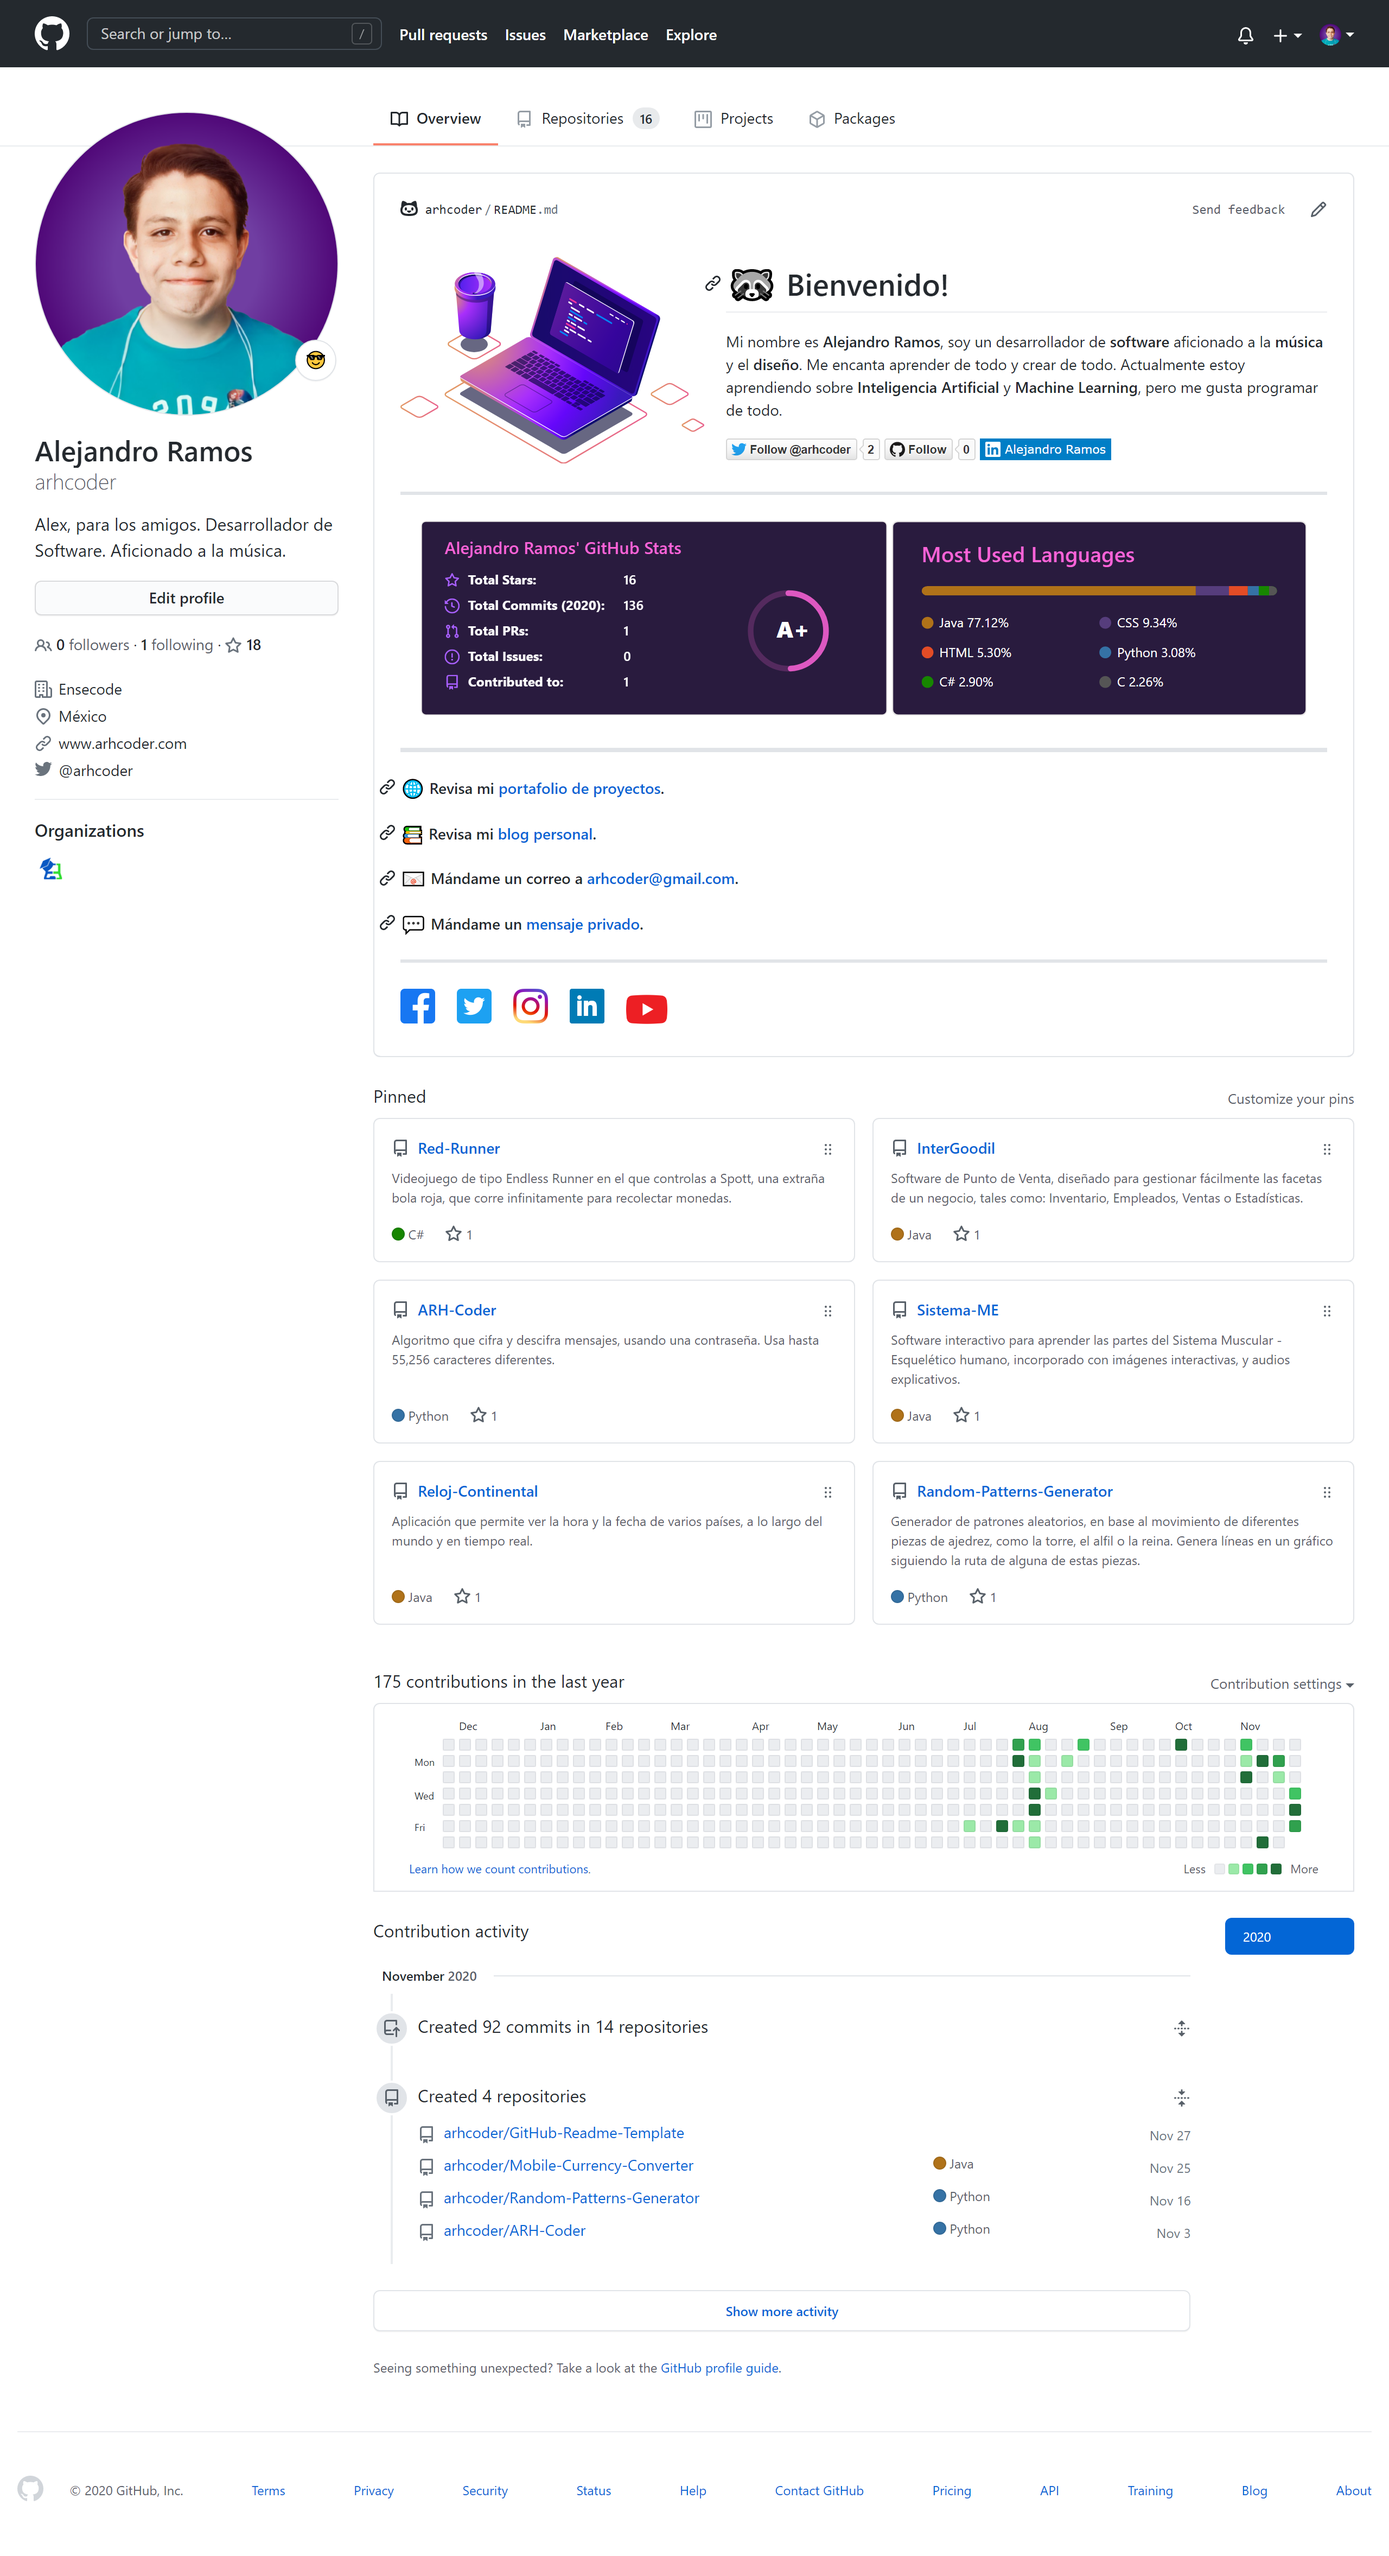
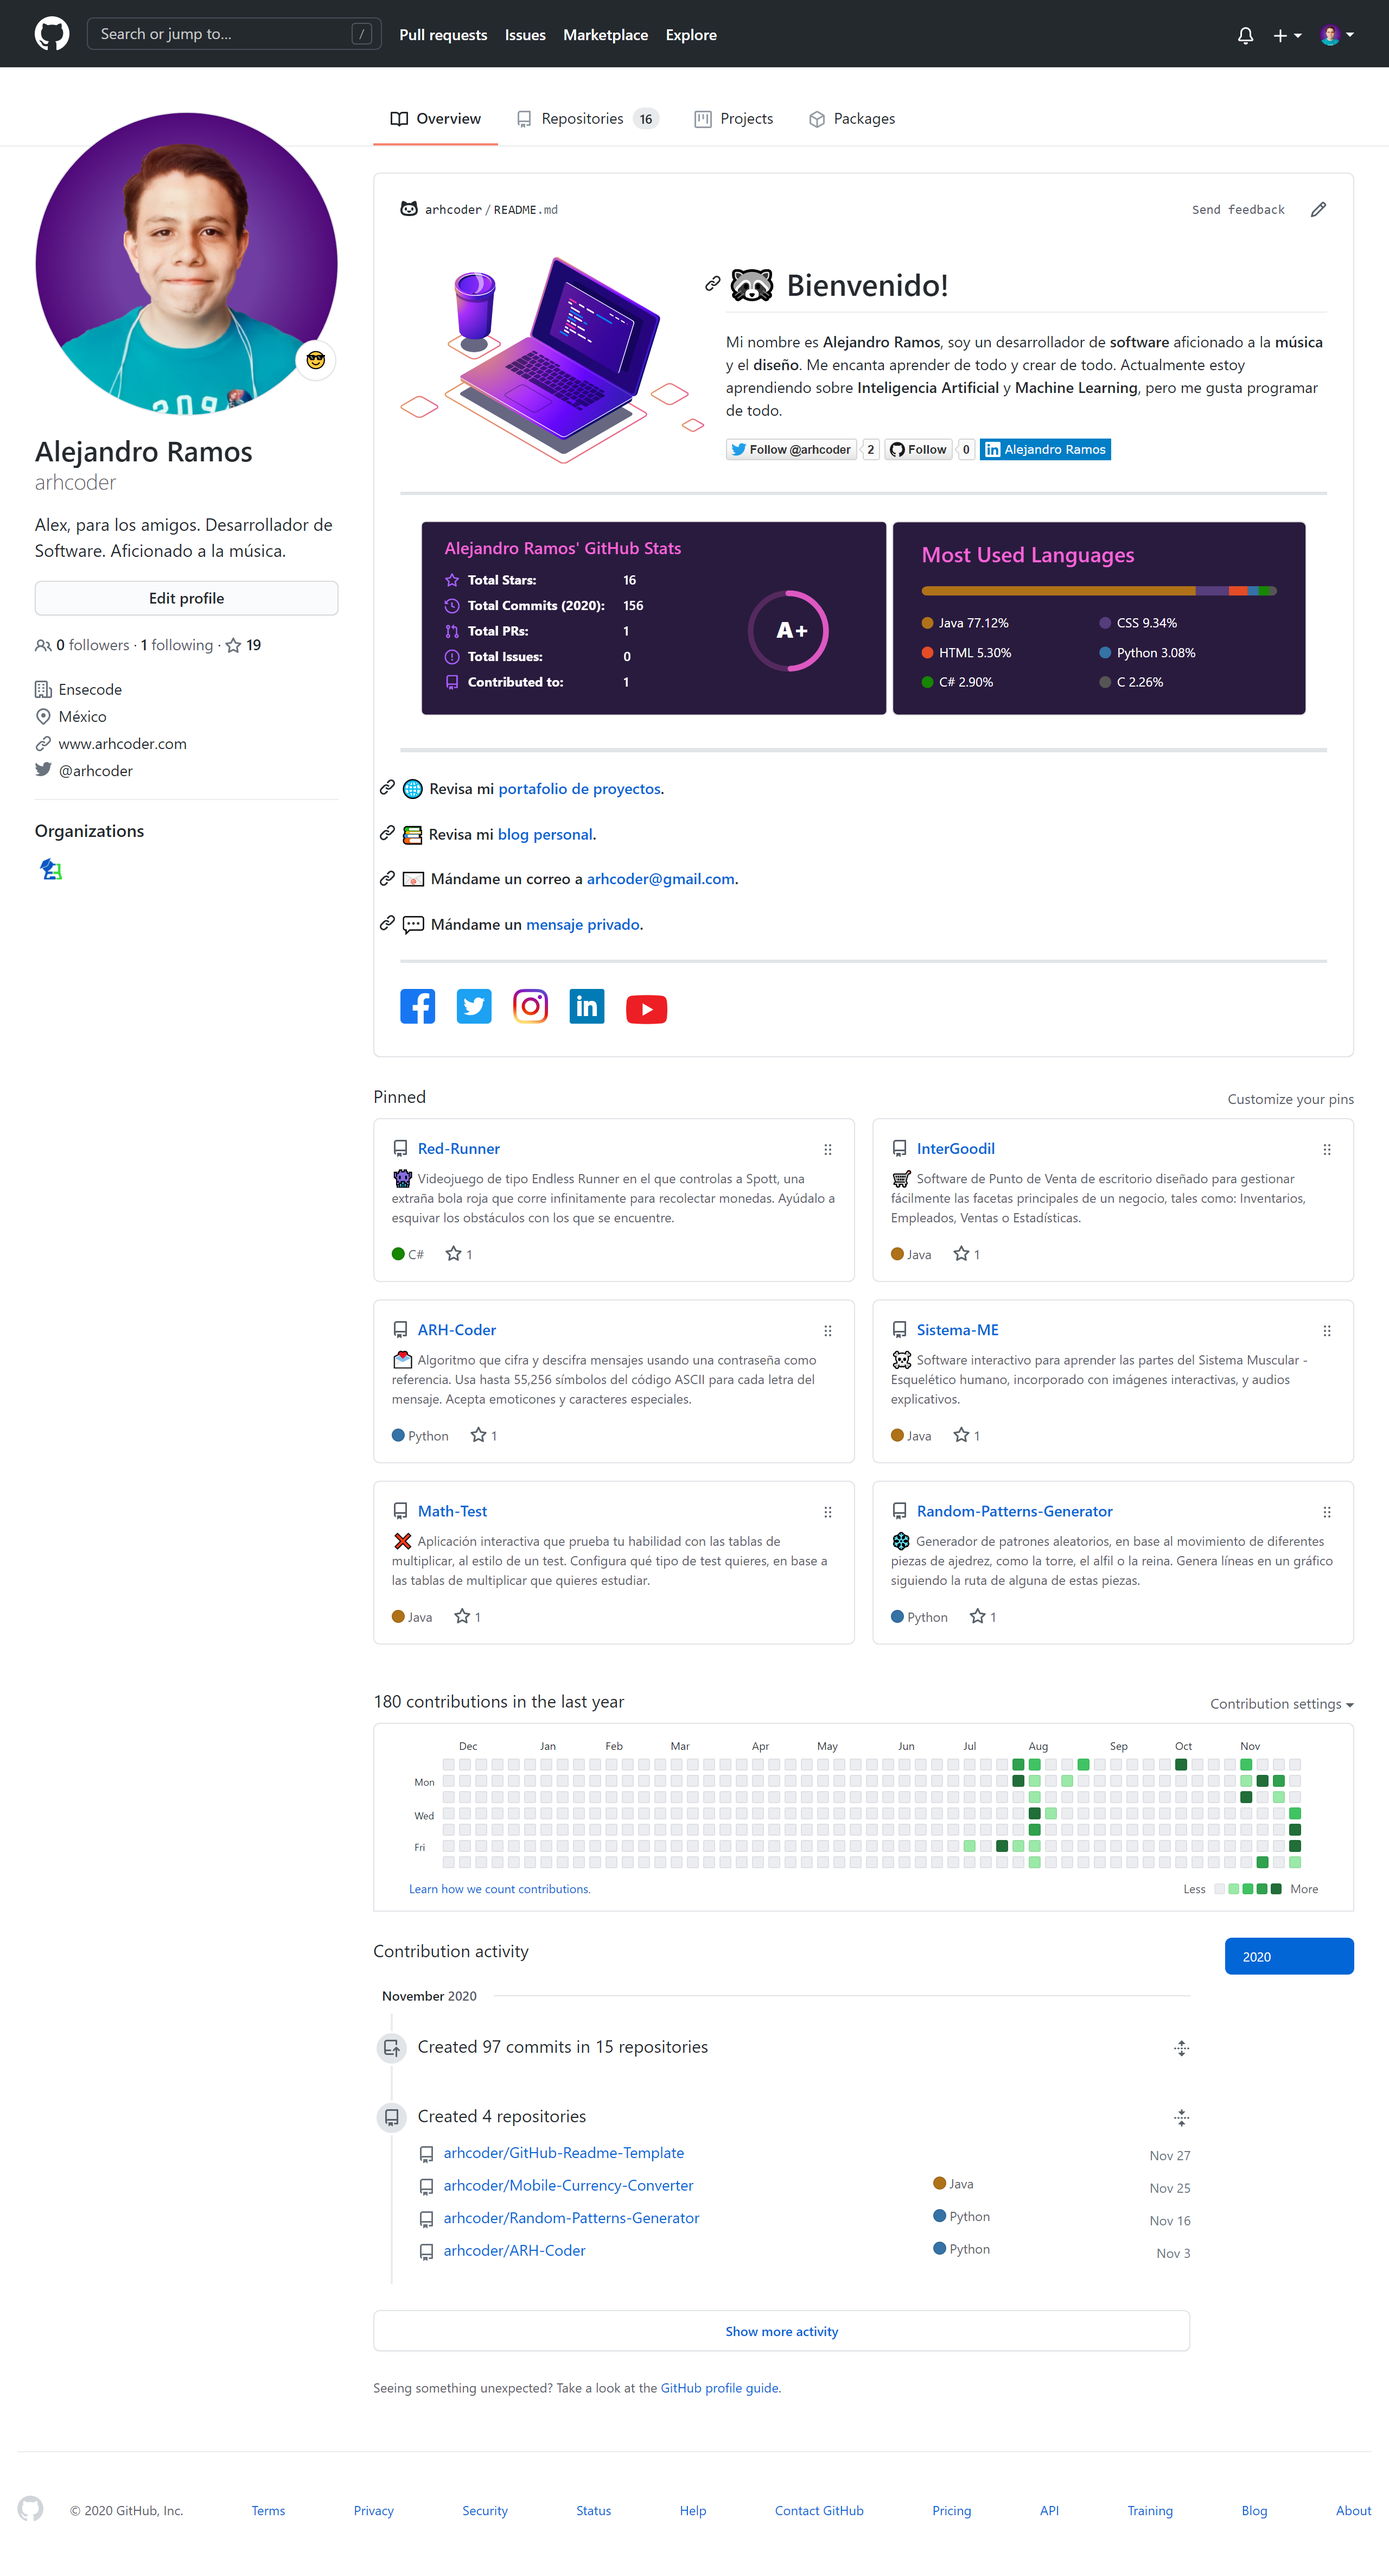
README Noviembre 28, 2020

diff --git a/README.md b/README.md
@@ -18,8 +18,8 @@ ___
 
 ___
 
-#### 🌐   Revisa mi [portafolio de proyectos](https://arhcoder.github.io/arhcoder).
-#### 📚   Revisa mi [blog personal](https://arhcoder.github.io/arhcoder).
+#### 🌐   Revisa mi [portafolio de proyectos](https://arhcoder.github.io/arhcoder) (En construcción).
+#### 📚   Revisa mi [blog personal](https://arhcoder.github.io/arhcoder) (Próximamente).
 #### 📧   Mándame un correo a [arhcoder@gmail.com](mailto:arhcoder@gmail.com).
 #### 💬   Mándame un [mensaje privado](https://www.facebook.com/messages/t/arhcoder/).
 
